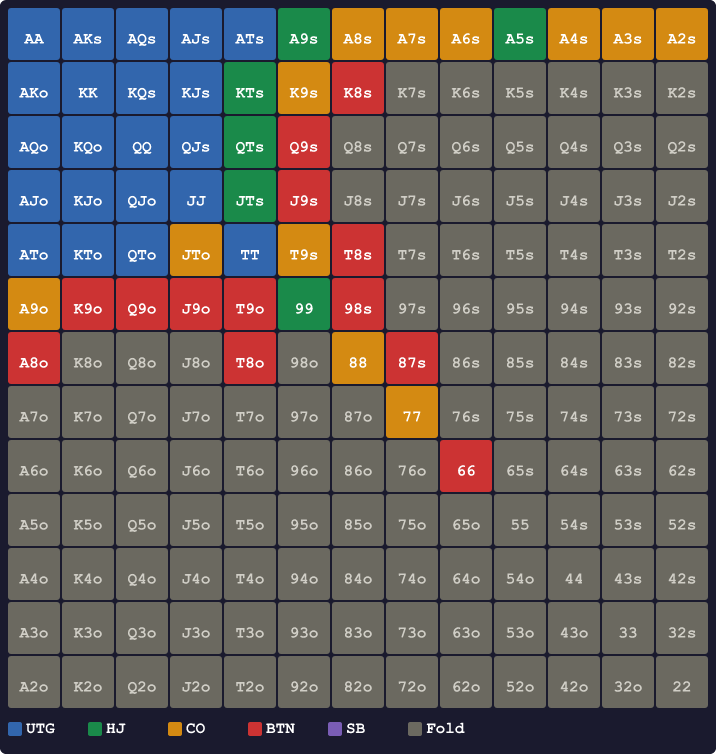
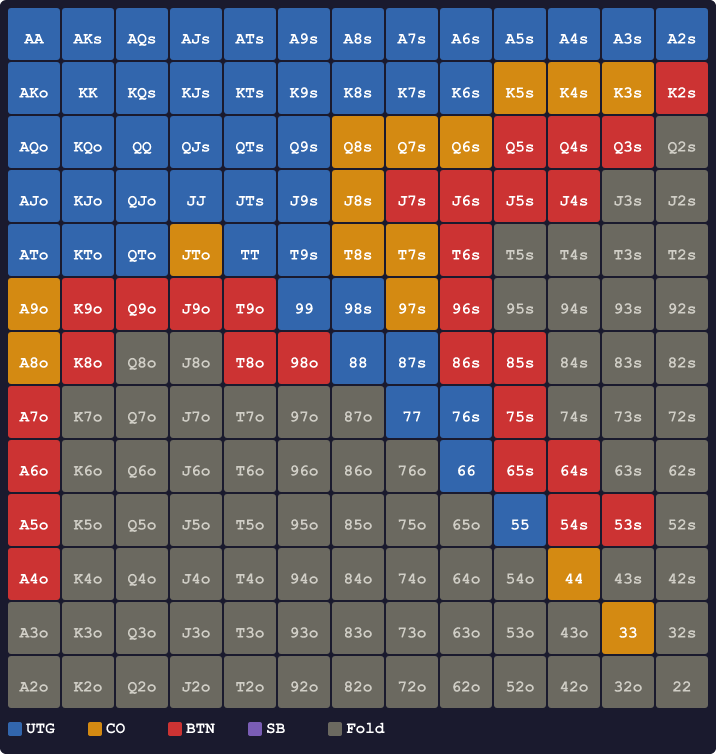
Add poker-books range tables: preflop RFI and flop SRP ranges from appendix and chapter 02

diff --git a/scripts/generate-range-tables.ts b/scripts/generate-range-tables.ts
@@ -108,58 +108,60 @@ function handName(r: number, c: number): string {
 // ---- レンジテキスト定義 ----
 
 // プリフロップ RFI (Raise First In) レンジ
-// poker-book と同じ定義を使用
-const preflopRFIRange = `UTG（約10〜15%）
-ペア:     66+
-スーテッド: A9s+, A5s, KTs+, QTs+, JTs, T9s, 98s
-オフスート: AQo+
+// poker-books preflop/chapters/23-appendix.md の付録A より抽出
+// スコア式ベースのポジション別オープンレンジ
+const preflopRFIRange = `UTG（しきい値 24）
+ペア:     77+
+スーテッド: AKs, AQs, AJs, ATs, KQs, KJs, KTs, QJs, JTs, A9s
+オフスート: AKo, AQo, AJo
 
-HJ（約19〜22%）
+MP（しきい値 22）
+ペア:     66+
+スーテッド: A2s+, K9s+, QTs+, JTs, T9s, 98s, KQs, KJs, KTs, QJs, JTs, A9s, A8s
+オフスート: AKo, AQo, AJo, ATo, KQo
+
+CO（しきい値 20）
+ペア:     55+
+スーテッド: A2s+, K8s+, Q9s+, J9s+, T9s, 87s, 98s, A9s, A8s, A7s
+オフスート: A9o+, AJo+, KQo, KJo
+
+BTN（しきい値 18）
+ペア:     22+
+スーテッド: A2s+, K2s+, Q2s+, J2s+, T3s+, 94s+, 84s+, 74s+, 63s+, 53s+, 43s+
+オフスート: A2o+, K8o+, Q9o+, J9o+, T8o+, 98o
+
+SB（しきい値 20、特殊）
+ペア:     55+
+スーテッド: A2s+, K8s+, Q9s+, JTs, T9s
+オフスート: AJo+, KQo`;
+
+// フロップ プリフロップオープンレンジ
+// poker-books flop/chapters/02-who-leads.md より抽出
+// SRP（シングルレイズポット）でのポジション別オープンレンジ
+const flopCbetRange = `UTG（17〜18%）
+ペア:     TT+
+スーテッド: ATs+, A5s, KTs+, QTs+, JTs, T9s, 98s
+オフスート: AJo+, KQo
+
+MP/HJ（21〜22%）
 ペア:     55+
 スーテッド: A2s+, K6s+, Q9s+, J9s+, T9s, 98s, 87s, 76s
 オフスート: ATo+, KTo+, QTo+
 
-CO（約25〜30%）
+CO（27〜28%）
 ペア:     33+
 スーテッド: A2s+, K3s+, Q6s+, J8s+, T7s+, 97s+, 87s, 76s
 オフスート: A8o+, KTo+, QTo+, JTo
 
-BTN（約40〜48%）
-ペア:     33+（22も状況次第）
+BTN（43〜45%）
+ペア:     33+
 スーテッド: A2s+, K2s+, Q3s+, J4s+, T6s+, 96s+, 85s+, 75s+, 64s+, 53s+
 オフスート: A4o+, K8o+, Q9o+, J9o+, T8o+, 98o
 
-SB（約47〜62%）
-ペア:     22+
-スーテッド: A2s+, K2s+, Q2s+, J2s+, T3s+, 94s+, 84s+, 74s+, 63s+, 53s+, 43s
-オフスート: A2o+, K4o+, Q5o+, J7o+, T7o+, 96o+, 86o+, 76o`;
-
-// フロップ C-bet レンジ例
-// 弱いボード（A-high dry）での C-bet 戦略
-const flopCbetRange = `UTG（約 60〜70%）
-ペア:     TT+
-スーテッド: ATs+, KJs+, QJs, AJs
-オフスート: ATo+, KTo+, QTo+
-
-HJ（約 65〜75%）
-ペア:     99+
-スーテッド: A9s+, A5s, KQs, KTs+, QTs, JTs
-オフスート: ATo+, KTo+, QJo
-
-CO（約 70〜80%）
-ペア:     77+
-スーテッド: A2s+, K9s+, QTs+, JTs, T9s
-オフスート: A9o+, KTo+, QTo+, JTo
-
-BTN（約 75〜85%）
-ペア:     66+
-スーテッド: A2s+, K8s+, Q9s+, J9s+, T8s+, 98s, 87s
-オフスート: A8o+, K9o+, Q9o+, J9o+, T8o+
-
-SB（約 50〜60%）
-ペア:     TT+
-スーテッド: A9s+, A5s, KJs+, QTs+, JTs
-オフスート: AQo+`;
+SB（39〜47%）
+ペア:     55+
+スーテッド: A2s+, K8s+, Q9s+, J9s+, T9s, 98s, 87s, 76s
+オフスート: AJo+, KQo`;
 
 // ---- SVG生成関数 ----
 
